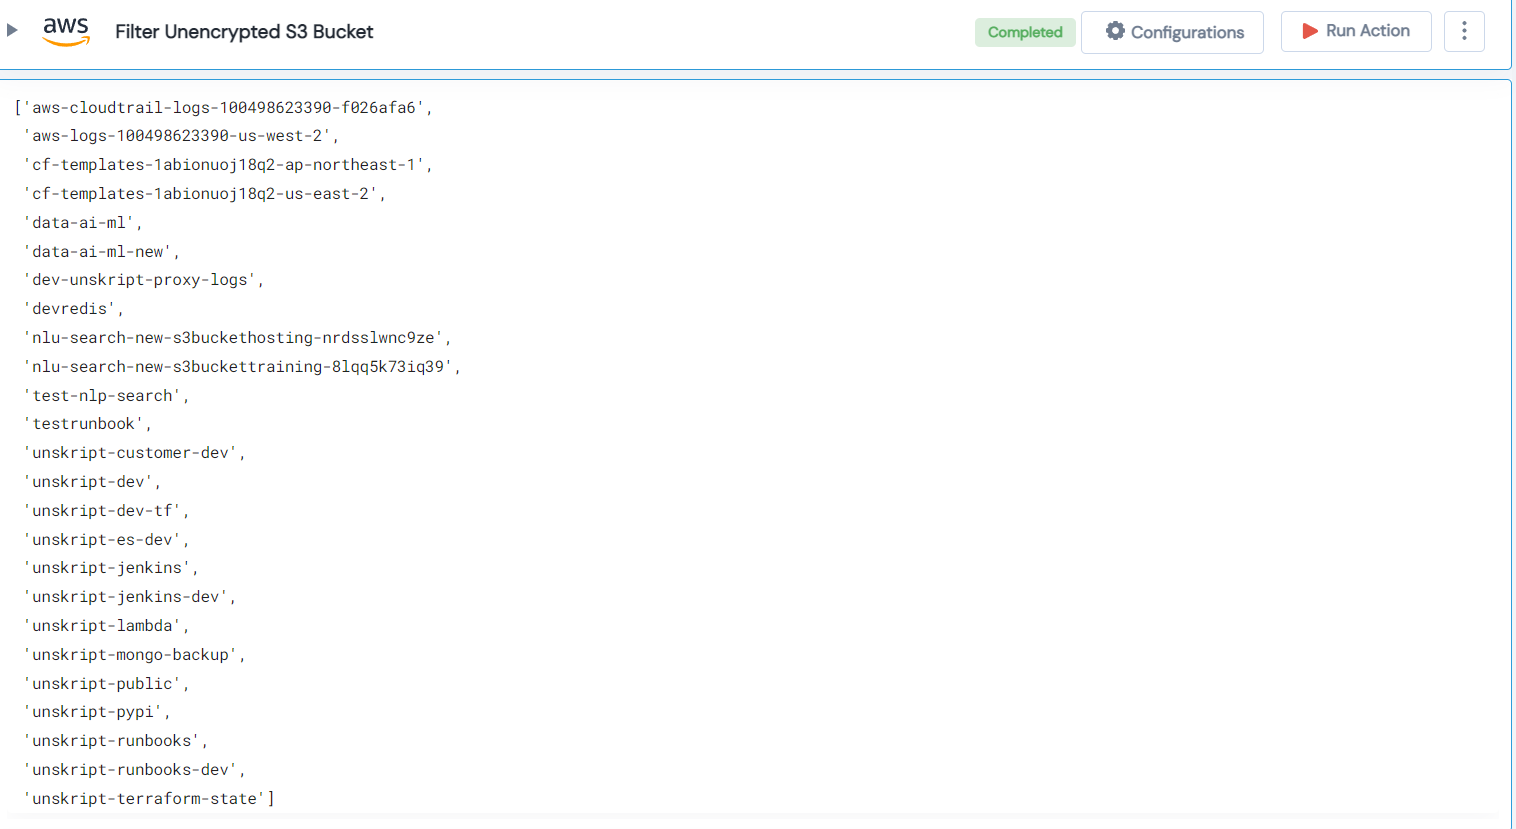
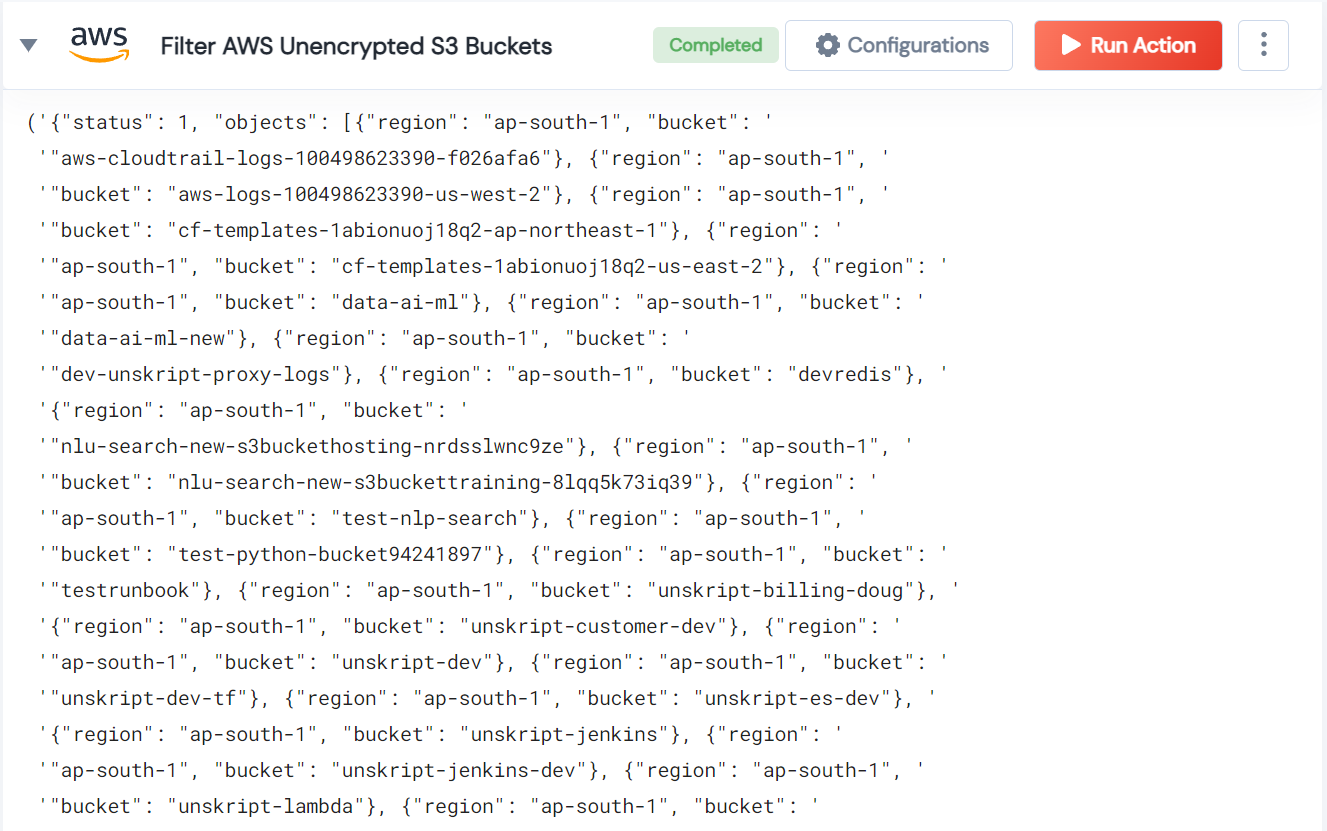
Check Action: Filter AWS Unencrypted S3 Buckets

diff --git a/AWS/legos/aws_filter_unencrypted_s3_buckets/aws_filter_unencrypted_s3_buckets.py b/AWS/legos/aws_filter_unencrypted_s3_buckets/aws_filter_unencrypted_s3_buckets.py
@@ -3,7 +3,8 @@
 ##  All rights reserved.
 ##
 from pydantic import BaseModel, Field
-from typing import Tuple, Optional
+from typing import Optional
+from unskript.legos.utils import CheckOutput, CheckOutputStatus
 from unskript.legos.aws.aws_list_all_regions.aws_list_all_regions import aws_list_all_regions
 from botocore.exceptions import ClientError
 import pprint
@@ -19,19 +20,20 @@ class InputSchema(BaseModel):
 def aws_filter_unencrypted_s3_buckets_printer(output):
     if output is None:
         return
-    pprint.pprint(output)
+    pprint.pprint(output.json())
 
 
-def aws_filter_unencrypted_s3_buckets(handle, region: str = "") -> Tuple:
-    """aws_filter_unencrypted_s3_buckets List of unencrypted bucket name .
+@beartype
+def aws_filter_unencrypted_s3_buckets(handle, region: str = "") -> CheckOutput:
+    """aws_filter_unencrypted_s3_buckets List of unencrypted S3 bucket name .
 
         :type handle: object
         :param handle: Object returned from task.validate(...).
-        
+
         :type region: string
         :param region: Filter S3 buckets.
 
-        :rtype: Tuple with execution result and unencrypted bucket name.
+        :rtype: CheckOutput with status result and list of unencrypted S3 bucket name.
     """
     result = []
     all_regions = [region]
@@ -54,9 +56,7 @@ def aws_filter_unencrypted_s3_buckets(handle, region: str = "") -> Tuple:
         except Exception as error:
             pass
 
-    execution_flag = False
-    if len(result) > 0:
-        execution_flag = True
-    output = (execution_flag, result)
-    return output
+    return CheckOutput(status=CheckOutputStatus.SUCCESS,
+                       objects=result,
+                       error=str(""))
 
